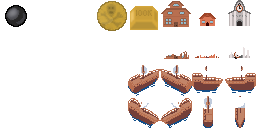
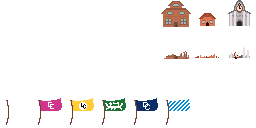
unkillable flag

diff --git a/core/src/com/mygdx/game/Entitys/College.java b/core/src/com/mygdx/game/Entitys/College.java
@@ -1,13 +1,10 @@
 package com.mygdx.game.Entitys;
 
-import com.badlogic.gdx.graphics.g2d.Sprite;
 import com.badlogic.gdx.math.Vector2;
 import com.badlogic.gdx.utils.JsonValue;
 import com.mygdx.game.Components.Pirate;
-import com.mygdx.game.Components.Renderable;
 import com.mygdx.game.Components.Transform;
 import com.mygdx.game.Managers.GameManager;
-import com.mygdx.game.Managers.ResourceManager;
 import com.mygdx.utils.Utilities;
 
 import java.util.ArrayList;
@@ -24,7 +21,8 @@ public class College extends Entity {
         buildingNames.add("clock");
         Transform t = new Transform();
         t.setPosition(pos);
-        addComponent(t);
+        Pirate p = new Pirate();
+        addComponents(t, p);
         spawn();
     }
 
@@ -40,23 +38,26 @@ public class College extends Entity {
             String b_name = Utilities.randomChoice(buildingNames);
             b.create(pos, b_name);
         }
-        /*Building flag = new Building();
+        Building flag = new Building(true);
         buildings.add(flag);
-        flag.create(origin, "flag_");*/
+        flag.create(origin, "dark-blue");
     }
 
-    public boolean isAlive() {
+    public void isAlive() {
+        boolean res = false;
         for(Building b : buildings) {
             if(b.isAlive()) {
-                return true;
+                res = true;
             }
         }
-        return false;
+        if (!res) {
+           getComponent(Pirate.class).kill();
+        }
     }
 
     @Override
     public void update() {
         super.update();
-        System.out.println(isAlive());
+        isAlive();
     }
 }

diff --git a/core/src/com/mygdx/game/Entitys/Building.java b/core/src/com/mygdx/game/Entitys/Building.java
@@ -12,14 +12,20 @@ import com.mygdx.game.Physics.PhysicsBodyType;
 public class Building extends Entity implements CollisionCallBack {
     private String buildingName;
     private static int atlas_id;
+    private boolean isFlag;
     Building() {
         super();
+        isFlag = false;
         Transform t = new Transform();
         t.setScale(3, 3);
         Pirate p = new Pirate();
         atlas_id = ResourceManager.getId("Buildings.txt");
         Renderable r = new Renderable(atlas_id, "big", RenderLayer.Transparent);
         addComponents(t, p, r);
+    }
+    Building(boolean isflag) {
+        this();
+        this.isFlag = isflag;
     }
 
     public void create(Vector2 pos, String name) {
@@ -35,6 +41,9 @@ public class Building extends Entity implements CollisionCallBack {
     }
 
     private void destroy() {
+        if(isFlag) {
+            return;
+        }
         Sprite s = ResourceManager.getSprite(atlas_id, buildingName + "-broken");
         Renderable r = getComponent(Renderable.class);
         r.setTexture(s);

diff --git a/core/src/com/mygdx/game/PirateGame.java b/core/src/com/mygdx/game/PirateGame.java
@@ -13,6 +13,8 @@ import com.mygdx.game.Entitys.College;
 import com.mygdx.game.Entitys.DebugText;
 import com.mygdx.game.Entitys.WorldMap;
 import com.mygdx.game.Managers.*;
+import com.mygdx.game.Quests.KillQuest;
+import com.mygdx.game.Quests.Quest;
 import com.mygdx.utils.QueueFIFO;
 
 import static com.mygdx.utils.Constants.*;
@@ -41,7 +43,8 @@ public class PirateGame extends ApplicationAdapter {
 
 		GameManager.CreatePlayer();
 		//GameManager.CreateNPCShip(2);
-		new College(new Vector2(900, 900));
+		College c = new College(new Vector2(900, 900));
+		QuestManager.addQuest(new KillQuest(c));
 
 		DebugText t = new DebugText();
 
